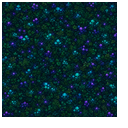
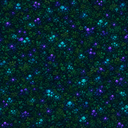
Restore meadow readability and campaign flow

diff --git a/src/heartwood-game.js b/src/heartwood-game.js
@@ -1,5 +1,5 @@
 import { createGameLoop } from "./engine/loop.js";
-import { setupCanvas, WORLD_W, WORLD_H } from "./engine/canvas.js";
+import { clearCanvasFrame, isInsideWorld, setupCanvas, WORLD_W, WORLD_H } from "./engine/canvas.js";
 import { AudioKit } from "./engine/audio.js";
 import { createRng } from "./engine/rng.js";
 import { pathsFromLevel } from "./level/path.js";
@@ -29,7 +29,6 @@ import {
   drawDefenderEntity,
   drawEnemyEntity,
   drawProjectileEntity,
-  drawHeartwoodGate,
   drawDarknessOverlay,
   drawFireOverlay,
 } from "./rendering/battlefield.js";
@@ -51,6 +50,8 @@ export function initHeartwoodGame(dom, level, options = {}) {
   const pauseButton = $("pauseButton");
   const resumeButton = $("resumeButton");
   const replayButton = $("replayButton");
+  const continueButton = $("continueButton");
+  const campaignButton = $("campaignButton");
   const muteButton = $("muteButton");
   const endTitle = $("endTitle");
   const endMessage = $("endMessage");
@@ -89,6 +90,8 @@ export function initHeartwoodGame(dom, level, options = {}) {
   let aim = null; // last pointer position in world coords — anchors the range ghost
   let bobPhase = 0;
   const onComplete = options.onComplete || (() => {});
+  const onContinue = options.onContinue || (() => {});
+  const onExit = options.onExit || (() => {});
 
   function createGameState() {
     return {
@@ -334,7 +337,7 @@ export function initHeartwoodGame(dom, level, options = {}) {
   // is. Green = placeable there, red/white = not. Role text on the cards tells
   // players WHAT a defender does; the ghost shows WHERE it pays off.
   function drawRangeGhost(ox, oy, scale) {
-    if (!aim || state.state !== "playing") return;
+    if (!aim || !isInsideWorld(aim) || state.state !== "playing") return;
     let x = aim.x;
     let y = aim.y;
     let r = 0;
@@ -396,13 +399,13 @@ export function initHeartwoodGame(dom, level, options = {}) {
   }
 
   function render() {
+    clearCanvasFrame(ctx);
     ctx.save();
     if (state?.shake > 0) {
       ctx.translate((Math.random() - 0.5) * state.shake * 20, (Math.random() - 0.5) * state.shake * 14);
     }
     const { scale, ox, oy } = viewTransform();
     battlefield.render(ctx, view.width, view.height, (wctx) => {
-      drawHeartwoodGate(wctx);
       if (!state) return;
       drawValidRingHighlights(wctx);
       const sorted = [...state.defenders, ...state.enemies].sort((a, b) => a.y - b.y);
@@ -560,6 +563,8 @@ export function initHeartwoodGame(dom, level, options = {}) {
     endLeaksText.textContent = String(Math.max(0, levelMaxHearts(level) - state.hearts));
     endManaText.textContent = String(Math.floor(state.mana));
     endSummary.classList.remove("hidden");
+    continueButton?.classList.toggle("hidden", !won || !options.hasNextLevel);
+    campaignButton?.classList.remove("hidden");
     endOverlay.classList.remove("hidden");
     audio.end(won);
     if (won) onComplete(level, state.hearts);
@@ -578,6 +583,8 @@ export function initHeartwoodGame(dom, level, options = {}) {
     gameScreen.classList.remove("hidden");
     pauseOverlay.classList.add("hidden");
     endOverlay.classList.add("hidden");
+    continueButton?.classList.add("hidden");
+    campaignButton?.classList.add("hidden");
     view.resize();
     buildToolbar();
     showStartGate();
@@ -610,6 +617,8 @@ export function initHeartwoodGame(dom, level, options = {}) {
       }
     });
     replayButton?.addEventListener("click", startLevel);
+    continueButton?.addEventListener("click", () => onContinue(level));
+    campaignButton?.addEventListener("click", () => onExit(level));
     startWaveButton?.addEventListener("click", () => {
       if (!state || state.wave !== 0 || state.waveActive) return;
       audio.ensure();

diff --git a/src/rendering/battlefield.js b/src/rendering/battlefield.js
@@ -23,6 +23,7 @@ export function createBattlefieldRenderer(level, catalog, options = {}) {
     drawGround(sctx, biome, catalog, images);
     drawWaterMasks(sctx, level, biome);
     for (const path of paths) drawPath(sctx, path, biome, images);
+    drawHeartwoodGate(sctx, catalog, images);
     for (const lm of level.landmarks || []) drawLandmark(sctx, lm, catalog, images);
     for (const dec of level.decorations || []) drawDecoration(sctx, dec, biome, catalog, images);
     for (const ring of level.rings || []) drawRingSpot(sctx, ring);
@@ -61,8 +62,13 @@ function drawGround(ctx, biome, catalog, images) {
   const grassId = biome.grassMaterial || "material-grass";
   const grass = images[grassId] || images["material-grass"];
   if (grass?.ready) {
-    ctx.fillStyle = ctx.createPattern(grass.img, "repeat");
-    ctx.fillRect(0, 0, WORLD_W, WORLD_H);
+    const asset = catalogAsset(catalog, grassId) || catalogAsset(catalog, "material-grass");
+    if (asset?.renderMode === "cover") {
+      ctx.drawImage(grass.img, 0, 0, WORLD_W, WORLD_H);
+    } else {
+      ctx.fillStyle = ctx.createPattern(grass.img, "repeat");
+      ctx.fillRect(0, 0, WORLD_W, WORLD_H);
+    }
     if (biome.darkness) {
       ctx.fillStyle = "rgba(8,12,28,0.35)";
       ctx.fillRect(0, 0, WORLD_W, WORLD_H);
@@ -128,12 +134,16 @@ function drawRingSpot(ctx, ring) {
 
 const LANDMARK_SPRITES = {
   "broken-fence": "landmark-broken-fence",
+  "clearance-notice": "landmark-broken-fence",
   "glow-mushroom-cluster": "landmark-glow-mushroom",
   "sawmill-debris": "landmark-sawmill-debris",
 };
 
 const DECORATION_SPRITES = {
-  stump: "decoration-stump",
+  stump: { id: "decoration-stump", scale: 5 },
+  flower: { id: "decoration-meadow-flowers", scale: 2.5 },
+  mushroom: { id: "decoration-meadow-mushroom", scale: 2.5 },
+  fence: { id: "landmark-broken-fence", scale: 6 },
 };
 
 function drawCatalogProp(ctx, spriteId, x, y, catalog, images, sizeOverride) {
@@ -174,9 +184,9 @@ function drawLandmark(ctx, lm, catalog, images) {
 }
 
 function drawDecoration(ctx, dec, biome, catalog, images) {
-  const spriteId = DECORATION_SPRITES[dec.type];
-  const size = dec.size ? [dec.size * 2, dec.size * 2] : null;
-  if (drawCatalogProp(ctx, spriteId, dec.x, dec.y, catalog, images, size)) return;
+  const sprite = DECORATION_SPRITES[dec.type];
+  const size = dec.size && sprite ? [dec.size * sprite.scale, dec.size * sprite.scale] : null;
+  if (drawCatalogProp(ctx, sprite?.id, dec.x, dec.y, catalog, images, size)) return;
   const colors = { stump: "#5c4030", flower: "#ff88cc", mushroom: "#cc88ff", fence: "#8b6914" };
   ctx.fillStyle = colors[dec.type] || biome.accentColor;
   ctx.beginPath();
@@ -376,7 +386,8 @@ export function drawProjectileEntity(ctx, p) {
   ctx.fill();
 }
 
-export function drawHeartwoodGate(ctx) {
+export function drawHeartwoodGate(ctx, catalog = null, images = {}) {
+  if (drawCatalogProp(ctx, "landmark-heartwood-gate", 42, 660, catalog, images)) return;
   ctx.fillStyle = "rgba(255,105,77,0.35)";
   ctx.fillRect(0, 200, 90, 624);
   ctx.fillStyle = "#ffd765";

diff --git a/src/campaign.js b/src/campaign.js
@@ -2,7 +2,12 @@ import { loadLevel, loadCatalog } from "./level/loader.js";
 import { initHeartwoodGame } from "./heartwood-game.js";
 import { isDebugMode } from "./rendering/debug.js";
 import { loadSprites, loadUnitsAtlas, loadCatalogSprites } from "./rendering/sprites.js";
-import { campaignLevels, cumulativeUnlocks, cumulativeSpellUnlock } from "./campaign-data.js";
+import {
+  campaignLevels,
+  cumulativeUnlocks,
+  cumulativeSpellUnlock,
+  nextLevelEntry,
+} from "./campaign-data.js";
 
 async function loadCampaignManifest() {
   const res = await fetch("levels/campaign.json");
@@ -38,6 +43,16 @@ export async function initCampaign(dom) {
 
   let stars = JSON.parse(localStorage.getItem("heartwood-stars") || "{}");
   let activeGame = null;
+
+  function navigate(params = "") {
+    const url = new URL(window.location.href);
+    url.search = params;
+    window.location.assign(url);
+  }
+
+  function goToCampaign() {
+    navigate("?campaign=1");
+  }
 
   function showCampaign() {
     startScreen?.classList.add("hidden");
@@ -91,6 +106,7 @@ export async function initCampaign(dom) {
 
   async function startLevel(levelId) {
     const level = await loadLevel(levelId);
+    const nextLevel = nextLevelEntry(manifest, levelId);
     const earnedUnlocks = cumulativeUnlocks(manifest, levelId);
     const spellUnlock = cumulativeSpellUnlock(manifest, levelId);
     level.unlocks = [...new Set([...(level.unlocks || []), ...earnedUnlocks])];
@@ -103,6 +119,11 @@ export async function initCampaign(dom) {
       catalog,
       atlas,
       images: sceneImages,
+      hasNextLevel: Boolean(nextLevel),
+      onContinue() {
+        if (nextLevel) navigate(`?level=${encodeURIComponent(nextLevel.id)}`);
+      },
+      onExit: goToCampaign,
       onComplete(lvl, heartsRemaining) {
         const maxHearts = lvl.maxHearts || 5;
         const starCount = heartsRemaining >= maxHearts ? 3 : heartsRemaining >= maxHearts - 1 ? 2 : 1;
@@ -119,9 +140,7 @@ export async function initCampaign(dom) {
   function bindEvents() {
     playButton?.addEventListener("click", showCampaign);
     backToMapButton?.addEventListener("click", () => {
-      gameScreen?.classList.add("hidden");
-      dom.getElementById("endOverlay")?.classList.add("hidden");
-      showCampaign();
+      goToCampaign();
     });
     campaignMap?.addEventListener("click", (e) => {
       const rect = campaignMap.getBoundingClientRect();
@@ -147,7 +166,9 @@ export async function initCampaign(dom) {
       bindEvents();
       setTimeout(drawGuardian, 250);
       const params = new URLSearchParams(window.location.search);
-      if (!params.get("level")) {
+      if (params.get("campaign")) {
+        showCampaign();
+      } else if (!params.get("level")) {
         startScreen?.classList.remove("hidden");
         campaignScreen?.classList.add("hidden");
         gameScreen?.classList.add("hidden");

diff --git a/styles.css b/styles.css
@@ -132,6 +132,13 @@ h2 {
   box-shadow: 0 3px 0 #9d5e12, 0 8px 18px rgba(0, 0, 0, 0.28);
 }
 
+.secondary-button {
+  padding: 14px 24px;
+  color: var(--cream);
+  background: rgba(255, 249, 215, 0.12);
+  border: 2px solid rgba(255, 249, 215, 0.38);
+}
+
 .game-screen {
   position: absolute;
   inset: 0;
@@ -345,6 +352,18 @@ h2 {
   border-radius: 18px;
   background: linear-gradient(#1f5a32, #102b1a);
   box-shadow: 0 20px 60px rgba(0, 0, 0, 0.45);
+}
+
+.overlay__actions {
+  display: flex;
+  flex-wrap: wrap;
+  justify-content: center;
+  gap: 12px;
+}
+
+.overlay__actions .primary-button,
+.overlay__actions .secondary-button {
+  min-width: 132px;
 }
 
 /* RP-nqfepx: read-only battle recap on the end modal (both outcomes). */

diff --git a/index.html b/index.html
@@ -69,7 +69,11 @@
           <span>enemies leaked <strong id="endLeaksText">0</strong></span>
           <span>mana banked <strong id="endManaText">0</strong></span>
         </p>
-        <button id="replayButton" class="primary-button" type="button">Replay</button>
+        <div class="overlay__actions">
+          <button id="replayButton" class="secondary-button" type="button">Replay</button>
+          <button id="continueButton" class="primary-button hidden" type="button">Next Level</button>
+          <button id="campaignButton" class="secondary-button hidden" type="button">Campaign Map</button>
+        </div>
       </div>
     </section>
   </main>

diff --git a/src/campaign-data.js b/src/campaign-data.js
@@ -24,6 +24,13 @@ export function levelIndex(manifest, levelId) {
   return campaignLevels(manifest).findIndex((l) => l.id === levelId);
 }
 
+/** Next campaign level after levelId, or null at the campaign end. */
+export function nextLevelEntry(manifest, levelId) {
+  const index = levelIndex(manifest, levelId);
+  if (index < 0) return null;
+  return campaignLevels(manifest)[index + 1] ?? null;
+}
+
 /** Act id for a level, or null. */
 export function actOf(manifest, levelId) {
   return levelEntry(manifest, levelId)?.act ?? null;

diff --git a/src/engine/canvas.js b/src/engine/canvas.js
@@ -29,6 +29,18 @@ export function setupCanvas(canvas, wrap) {
   };
 }
 
+/** Clear every backing-store pixel without depending on the active DPI transform. */
+export function clearCanvasFrame(ctx) {
+  ctx.save();
+  ctx.resetTransform();
+  ctx.clearRect(0, 0, ctx.canvas.width, ctx.canvas.height);
+  ctx.restore();
+}
+
+export function isInsideWorld(point) {
+  return point.x >= 0 && point.x <= WORLD_W && point.y >= 0 && point.y <= WORLD_H;
+}
+
 export const WORLD_W = 1536;
 export const WORLD_H = 1024;
 

diff --git a/assets/prompts/material-grass.md b/assets/prompts/material-grass.md
@@ -1,9 +1,10 @@
-# Tileable meadow grass material
+# Meadow ground material
 
-Seamless tileable forest meadow grass texture, dark bioluminescent undergrowth, painterly Forest Rescue style.
+Painterly forest meadow ground with layered short grass, moss, clover, sparse violet flowers, and soft leaf litter in the Forest Rescue style.
 
-- 128x128 tileable, no objects, no path
+- 1536x1024 full-bleed ground plate, no path
 - Top-down view
-- Teal-green palette with subtle purple glow spots
+- Emerald and moss-green palette with restrained violet and cyan accents
+- Broad readable brushwork; no high-frequency noise, borders, grids, or seams
 
 References: gameplay-mockup.png (palette)

diff --git a/assets/prompts/landmark-heartwood-gate.md b/assets/prompts/landmark-heartwood-gate.md
@@ -1,0 +1,10 @@
+# Heartwood gate landmark
+
+Ancient friendly living-tree gate with a warm doorway, layered roots, emerald leaves, violet flowers, and restrained cyan runes. Match the defended gate in the Forest Rescue gameplay concept.
+
+- Transparent background
+- 512x768, one complete vertical gate
+- Front-facing with a slight top-down three-quarter view
+- Crisp silhouette at about 240x440 display size
+
+References: gameplay-mockup.png

diff --git a/assets/prompts/decoration-meadow-flowers.md b/assets/prompts/decoration-meadow-flowers.md
@@ -1,0 +1,9 @@
+# Meadow flower decoration
+
+Small mixed violet, blue, and white wildflower cluster with clover, top-down three-quarter view, painterly Forest Rescue style.
+
+- Transparent background
+- 256x256, one low ground cluster
+- Crisp silhouette at 48 to 80 pixels
+
+References: gameplay-mockup.png

diff --git a/assets/prompts/decoration-meadow-mushroom.md b/assets/prompts/decoration-meadow-mushroom.md
@@ -1,0 +1,9 @@
+# Meadow mushroom decoration
+
+Small turquoise woodland mushroom and clover cluster, top-down three-quarter view, painterly Forest Rescue style.
+
+- Transparent background
+- 256x256, one low ground cluster
+- Crisp silhouette at 48 to 80 pixels
+
+References: gameplay-mockup.png
